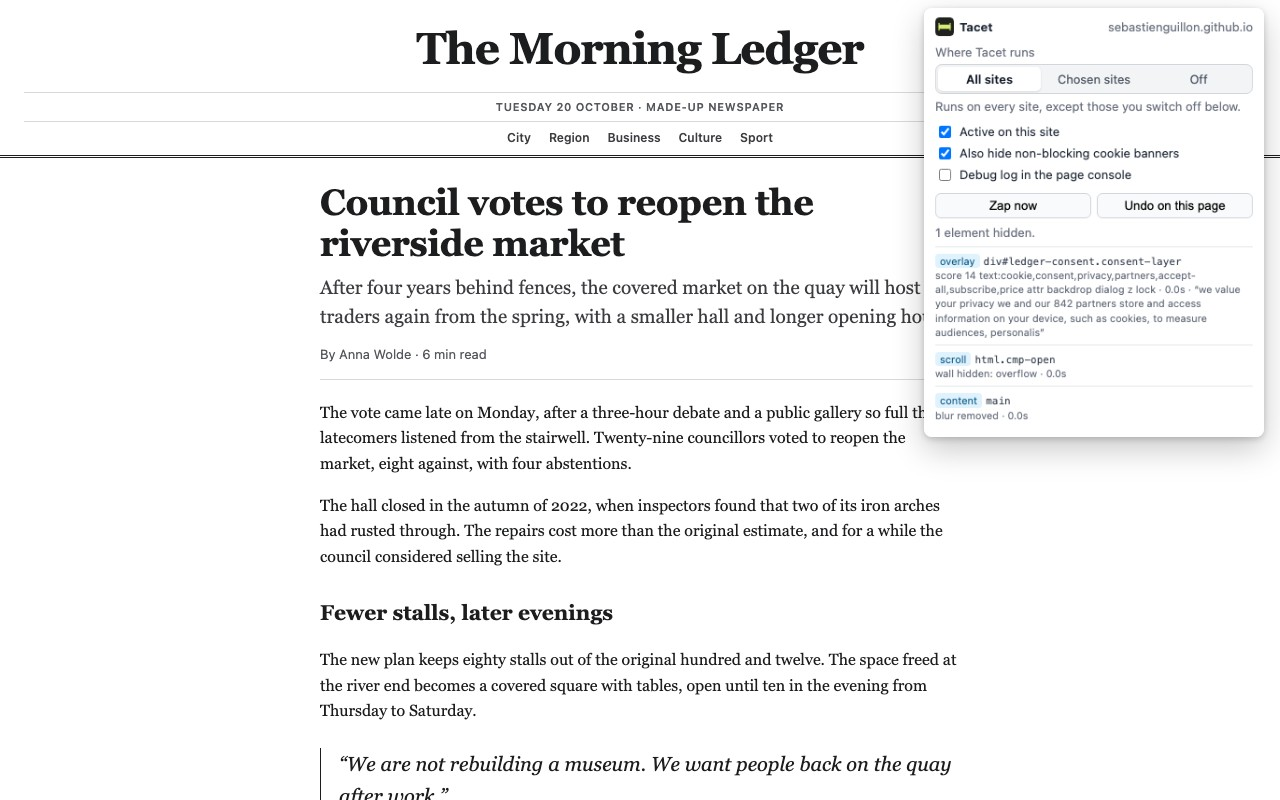
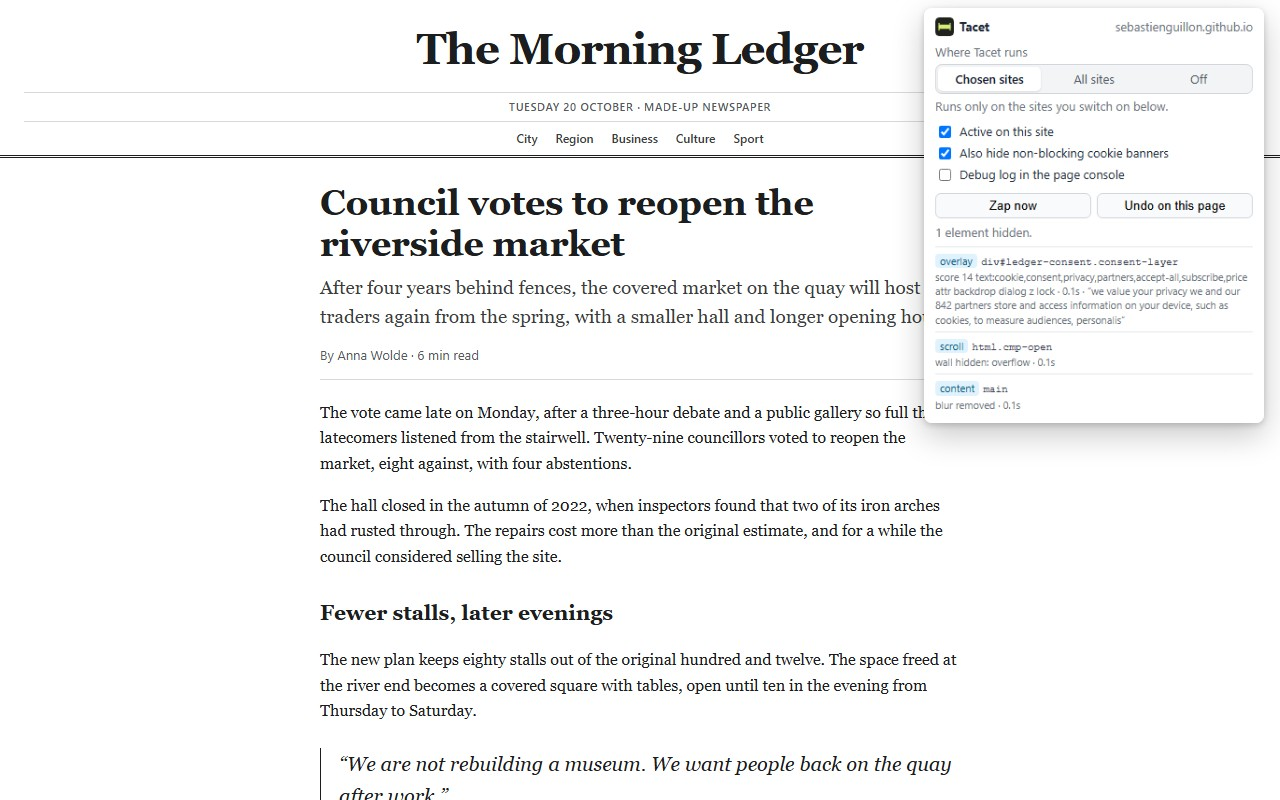
feat: new installs run on chosen sites, listed first
The popup's switch now reads Chosen sites, All sites, Off, and a new install
starts in Chosen sites: Tacet leaves every site alone until it is switched
on there or All sites is chosen. The installs from before keep All sites.

src/background.js listens only to runtime.onInstalled and stores mode
"sites" on install when no mode is stored. No mode stored still means All
sites, the default before, so the installs from before need no event:
Firefox sends none for an update applied while the add-on is disabled. The
manifest declares the script as background.service_worker for Chrome and
background.scripts for Firefox; Chrome before 121 refuses the latter, hence
minimum_chrome_version 121. Mozilla's linter warns that Firefox ignores
service_worker, so pnpm lint:ext now runs scripts/lint-ext.mjs, which fails
on every error and warning but that one.

tests/install.test.mjs runs the background script with a stand-in API, then
installs the unpacked extension in Chromium and checks that a new install
leaves a page alone until its site is switched on. tests/settings.test.mjs
checks the popup's order, labels and hint for a new install, and
tests/manifest.test.mjs the background keys and the minimum Chrome version.
A fresh profile is a new install, so pnpm probe now runs on all sites and
pnpm screenshots switches the demo's site on. The README, PRODUCT.md, the
support and privacy pages and the store listings describe the new default,
[…]

diff --git a/docs/fr/confidentialite.html b/docs/fr/confidentialite.html
@@ -43,7 +43,7 @@
           Tacet fonctionne entièrement dans votre navigateur. Il n’a ni serveur, ni statistiques, ni
           compte, et n’envoie aucune donnée à son développeur ni à personne d’autre.
         </p>
-        <p class="meta">Politique de confidentialité · Mise à jour le 20 octobre 2026</p>
+        <p class="meta">Politique de confidentialité · Mise à jour le 28 novembre 2026</p>
       </div>
       <aside class="policy-index">
         <nav aria-label="Sections de la politique de confidentialité">
@@ -67,7 +67,9 @@
           <code>https</code>, dans la page elle-même et non dans les cadres qu’elle intègre, dès que
           la page commence à se charger. Il ne s’exécute pas sur les pages du navigateur, sur les
           boutiques d’extensions, ni sur les fichiers ouverts depuis votre ordinateur. Tout son code
-          est dans le paquet installé ; il ne charge rien depuis internet.
+          est dans le paquet installé ; il ne charge rien depuis internet. Son script d’arrière-plan
+          n’agit que lorsque Tacet est installé : il enregistre que Tacet s’exécute sur les sites
+          que vous choisissez, et ne lit rien sur les pages.
         </p>
 
         <h2 id="reads">Ce qu’il lit et pourquoi</h2>
@@ -98,7 +100,7 @@
         <ul>
           <li>
             Dans le stockage des extensions du navigateur, sur cet appareil uniquement (sans
-            synchronisation) : là où Tacet s’exécute (tous les sites, les sites choisis ou aucun),
+            synchronisation) : là où Tacet s’exécute (les sites choisis, tous les sites ou aucun),
             les sites où vous l’avez activé ou désactivé, le fait qu’il masque ou non les bandeaux
             de cookies qui ne bloquent pas la page, et l’activation ou non du journal de débogage.
           </li>
@@ -135,11 +137,12 @@
 
         <h2 id="choices">Vos choix</h2>
         <p>
-          Depuis la fenêtre de Tacet, vous pouvez l’exécuter sur tous les sites, seulement sur les
-          sites que vous choisissez, ou sur aucun, l’activer ou le désactiver pour un site, annuler
-          ses changements sur la page en cours, ou l’empêcher de masquer les bandeaux de cookies qui
-          ne bloquent pas la page. Supprimer l’extension efface ses réglages. Rien sur vous n’est
-          conservé ailleurs.
+          Quand vous installez Tacet, il laisse toutes les pages intactes jusqu’à ce que vous
+          choisissiez où il s’exécute. Depuis sa fenêtre, vous pouvez l’exécuter seulement sur les
+          sites que vous choisissez, sur tous les sites, ou sur aucun, l’activer ou le désactiver
+          pour un site, annuler ses changements sur la page en cours, ou l’empêcher de masquer les
+          bandeaux de cookies qui ne bloquent pas la page. Supprimer l’extension efface ses
+          réglages. Rien sur vous n’est conservé ailleurs.
         </p>
 
         <h2 id="website">Ce site</h2>

diff --git a/docs/privacy.html b/docs/privacy.html
@@ -42,7 +42,7 @@
           Tacet works entirely in your browser. It has no server, no analytics and no account, and
           it sends no data to its developer or to anyone else.
         </p>
-        <p class="meta">Privacy policy · Updated 20 October 2026</p>
+        <p class="meta">Privacy policy · Updated 28 November 2026</p>
       </div>
       <aside class="policy-index">
         <nav aria-label="Privacy policy sections">
@@ -66,7 +66,8 @@
           page itself rather than in frames embedded in it, from the moment the page starts loading.
           It does not run on the browser’s own pages, on extension stores, or on files opened from
           your computer. All of its code is in the installed package; it loads nothing from the
-          internet.
+          internet. Its background script acts only when Tacet is installed: it stores that Tacet
+          runs on the sites you choose, and reads nothing from pages.
         </p>
 
         <h2 id="reads">What it reads and why</h2>
@@ -95,7 +96,7 @@
         <ul>
           <li>
             In the browser’s extension storage, on this device only (it does not sync): where Tacet
-            runs (all sites, chosen sites or none), the sites you switched it on or off for, whether
+            runs (chosen sites, all sites or none), the sites you switched it on or off for, whether
             it hides cookie banners that do not block the page, and whether debug logging is on.
           </li>
           <li>
@@ -130,10 +131,11 @@
 
         <h2 id="choices">Your choices</h2>
         <p>
-          From Tacet’s popup, you can run it on all sites, only on the sites you choose, or on none,
-          switch it on or off for a site, undo its changes on the current page, or stop it from
-          hiding cookie banners that do not block the page. Removing the extension deletes its
-          settings. Nothing about you is kept anywhere else.
+          When you install Tacet, it leaves every page alone until you choose where it runs. From
+          its popup, you can run it only on the sites you choose, on all sites, or on none, switch
+          it on or off for a site, undo its changes on the current page, or stop it from hiding
+          cookie banners that do not block the page. Removing the extension deletes its settings.
+          Nothing about you is kept anywhere else.
         </p>
 
         <h2 id="website">This website</h2>

diff --git a/docs/fr/aide.html b/docs/fr/aide.html
@@ -59,10 +59,11 @@
         <details open>
           <summary>Un mur est encore sur la page</summary>
           <p>
-            Ouvrez la fenêtre de Tacet depuis la barre d’outils et appuyez sur
-            <strong>Zap now</strong> : il masque ce qui couvre encore la page et débloque le
-            défilement. Si cela fonctionne, signalez la page, pour que Tacet apprenne à le faire de
-            lui-même.
+            Ouvrez la fenêtre de Tacet depuis la barre d’outils et cochez
+            <strong>Active on this site</strong> si ce n’est pas déjà fait. Si le mur est toujours
+            là, appuyez sur <strong>Zap now</strong> : il masque ce qui couvre encore la page et
+            débloque le défilement. Si cela fonctionne, signalez la page, pour que Tacet apprenne à
+            le faire de lui-même.
           </p>
         </details>
         <details>
@@ -108,11 +109,14 @@
         <details>
           <summary>Tacet ne fait rien sur une page</summary>
           <p>
-            Tacet s’exécute seulement sur les pages web : pas sur les pages du navigateur, les
-            boutiques d’extensions ou les fichiers ouverts depuis votre ordinateur, ni dans les
-            cadres intégrés à une page. Vérifiez dans sa fenêtre qu’il est actif pour ce site : avec
-            <strong>Chosen sites</strong>, il ne s’exécute que sur les sites que vous avez activés,
-            et avec <strong>Off</strong>, sur aucun.
+            À l’installation, Tacet est réglé sur <strong>Chosen sites</strong> : il ne s’exécute
+            que sur les sites que vous activez. Cochez <strong>Active on this site</strong> dans sa
+            fenêtre, ou choisissez <strong>All sites</strong> ; avec <strong>Off</strong>, il ne
+            s’exécute sur aucun. Quel que soit votre choix, Tacet s’exécute seulement sur les pages
+            web : pas sur les pages du navigateur, les boutiques d’extensions ou les fichiers
+            ouverts depuis votre ordinateur, ni dans les cadres intégrés à une page. Un site est son
+            adresse sans <code>www.</code> : <code>news.example.com</code> et
+            <code>example.com</code> s’activent séparément.
           </p>
         </details>
       </section>

diff --git a/docs/support.html b/docs/support.html
@@ -56,9 +56,10 @@
         <details open>
           <summary>A wall is still on the page</summary>
           <p>
-            Open Tacet’s popup from the toolbar and press <strong>Zap now</strong>: it hides
-            whatever still covers the page and unlocks scrolling. If that works, report the page, so
-            that Tacet learns to do it on its own.
+            Open Tacet’s popup from the toolbar and tick <strong>Active on this site</strong> if it
+            is not ticked already. If the wall is still there, press <strong>Zap now</strong>: it
+            hides whatever still covers the page and unlocks scrolling. If that works, report the
+            page, so that Tacet learns to do it on its own.
           </p>
         </details>
         <details>
@@ -102,10 +103,13 @@
         <details>
           <summary>Tacet does nothing on a page</summary>
           <p>
-            Tacet runs only on web pages: not on the browser’s own pages, on extension stores, or on
-            files opened from your computer, and not inside frames embedded in a page. Check in its
-            popup that it is active for the site: with <strong>Chosen sites</strong>, it runs only
-            on the sites you switched on, and with <strong>Off</strong>, on none.
+            When you install Tacet, it is set to <strong>Chosen sites</strong>: it runs only on the
+            sites you switch on. Tick <strong>Active on this site</strong> in its popup, or choose
+            <strong>All sites</strong>; with <strong>Off</strong>, it runs on none. Whatever you
+            choose, Tacet runs only on web pages: not on the browser’s own pages, on extension
+            stores, or on files opened from your computer, and not inside frames embedded in a page.
+            A site is its address without <code>www.</code>, so <code>news.example.com</code> and
+            <code>example.com</code> are switched on separately.
           </p>
         </details>
       </section>

diff --git a/src/popup/popup.js b/src/popup/popup.js
@@ -3,8 +3,8 @@ const $ = (id) => document.getElementById(id);
 
 // The settings are described in src/content/tacet.js, next to its runsOn().
 const HINTS = {
-  on: "Runs on every site, except those you switch off below.",
   sites: "Runs only on the sites you switch on below.",
+  on: "Runs on every site, except those you switch off below.",
   off: "Off everywhere. Zap now still works on this page.",
 };
 
@@ -29,7 +29,9 @@ async function send(type) {
   }
 }
 
-// The sites switched off before modes existed become choices in `sites`.
+// The sites switched off before modes existed become choices in `sites`. No
+// mode stored means All sites, as for the installs from before; a new install
+// stores Chosen sites (src/background.js).
 async function readSettings() {
   const s = await api.storage.local.get(["mode", "sites", "disabledHosts", "debug", "banners"]);
   const sites = s.sites ?? {};

diff --git a/src/background.js b/src/background.js
@@ -1,0 +1,14 @@
+// Stores where a new install of Tacet runs, and listens to nothing else: "sites"
+// (Chosen sites), so Tacet leaves every site alone until it is switched on
+// there. An install from before has no mode stored, which means "on" (All
+// sites), the default before: it needs no event, so one the browser does not
+// send (Firefox sends none for an update applied while Tacet is disabled) cannot
+// switch Tacet off where it ran. A mode already stored is the user's choice and
+// stays. src/content/tacet.js describes the settings next to its runsOn().
+const api = globalThis.browser ?? globalThis.chrome;
+
+api.runtime.onInstalled.addListener(async ({ reason }) => {
+  if (reason !== "install") return;
+  const { mode } = await api.storage.local.get("mode");
+  if (mode === undefined) await api.storage.local.set({ mode: "sites" });
+});

diff --git a/docs/demo/tacet.js b/docs/demo/tacet.js
@@ -1053,8 +1053,10 @@
   }
 
   // Settings in extension storage (src/popup/popup.js writes them):
-  //   mode: "on" (default) runs on every site, "sites" only on the sites switched
-  //         on, "off" on none;
+  //   mode: "sites" runs only on the sites switched on, "on" on every site, "off"
+  //         on none. src/background.js stores "sites" when Tacet is installed;
+  //         no mode stored means "on", the default before, so the installs from
+  //         before keep running where they ran;
   //   sites: { host: true | false }, the user's choice for each site, which wins
   //         over the mode's default in "on" and "sites";
   //   disabledHosts: { host: true }, the sites switched off before modes existed.

diff --git a/src/content/tacet.js b/src/content/tacet.js
@@ -1053,8 +1053,10 @@
   }
 
   // Settings in extension storage (src/popup/popup.js writes them):
-  //   mode: "on" (default) runs on every site, "sites" only on the sites switched
-  //         on, "off" on none;
+  //   mode: "sites" runs only on the sites switched on, "on" on every site, "off"
+  //         on none. src/background.js stores "sites" when Tacet is installed;
+  //         no mode stored means "on", the default before, so the installs from
+  //         before keep running where they ran;
   //   sites: { host: true | false }, the user's choice for each site, which wins
   //         over the mode's default in "on" and "sites";
   //   disabledHosts: { host: true }, the sites switched off before modes existed.

diff --git a/src/popup/popup.html b/src/popup/popup.html
@@ -14,8 +14,8 @@
     <fieldset class="modes">
       <legend>Where Tacet runs</legend>
       <div class="segments">
-        <label><input type="radio" name="mode" value="on" />All sites</label>
         <label><input type="radio" name="mode" value="sites" />Chosen sites</label>
+        <label><input type="radio" name="mode" value="on" />All sites</label>
         <label><input type="radio" name="mode" value="off" />Off</label>
       </div>
       <p id="hint"></p>

diff --git a/README.md b/README.md
@@ -12,7 +12,7 @@ Its public website is <https://sebastienguillon.github.io/tacet/>, in English an
 
 ## Requirements
 
-- Google Chrome, or Firefox 140 or later
+- Google Chrome 121 or later, or Firefox 140 or later
 - A local copy of this repository
 - Node.js 24 or later and pnpm 12 or later, for the tests and tools only
 
@@ -33,14 +33,14 @@ After changing the source, click the **Reload** button on the Tacet card in `chr
 3. Click **Load Temporary Add-on…**.
 4. Select `src/manifest.json` in this repository.
 
-Firefox removes temporarily loaded extensions when the browser restarts. `pnpm start:firefox` starts a separate Firefox profile with Tacet loaded and reloads it when the source changes; `pnpm start:chrome` does the same in Chromium.
+Firefox removes temporarily loaded extensions when the browser restarts. `pnpm start:firefox` starts a separate Firefox profile with Tacet loaded and reloads it when the source changes; `pnpm start:chrome` does the same in Chromium. Each run is a new install, so Tacet starts in **Chosen sites**: switch it on for the page's site, or choose **All sites**.
 
 ## Using it
 
-Tacet works on its own as pages load. The toolbar popup can:
+Tacet works on its own as pages load, on the sites where it runs. A new install starts in **Chosen sites**: Tacet leaves every site alone until you switch it on for that site (**Active on this site**) or choose **All sites**. The toolbar popup can:
 
-- choose where Tacet runs: **All sites** (the default), **Chosen sites** (only the sites you switch on), or **Off**;
-- switch Tacet on or off for the current site (**Active on this site**). In **All sites** this makes an exception, in **Chosen sites** it adds the site; the choice is kept when you change modes, and **Off** overrides it. A site is its host name without `www.`, so `www.example.com` and `example.com` are one site and `news.example.com` is another;
+- choose where Tacet runs: **Chosen sites** (the default: only the sites you switch on), **All sites**, or **Off**;
+- switch Tacet on or off for the current site (**Active on this site**). In **Chosen sites** this adds the site, in **All sites** it makes an exception; the choice is kept when you change modes, and **Off** overrides it. A site is its host name without `www.`, so `www.example.com` and `example.com` are one site and `news.example.com` is another;
 - hide cookie banners that do not block the page, or leave them (on by default);
 - hide whatever is left on the page (**Zap now**) and restore the page (**Undo on this page**);
 - list what was hidden or repaired on the page and why;
@@ -48,7 +48,7 @@ Tacet works on its own as pages load. The toolbar popup can:
 
 On a site where Tacet is off, the content script reads its settings and nothing else: it does not observe or change the page. **Zap now** still works there, on the current page only; **Undo on this page** stops it again.
 
-The settings are in `browser.storage.local`: `mode` (`"on"`, `"sites"` or `"off"`), `sites` (`{ host: true | false }`), `banners` and `debug`. `src/content/tacet.js` documents them next to `runsOn()`, which `src/popup/popup.js` repeats. Sites switched off before modes existed, in `disabledHosts`, are still honoured and move into `sites` the first time the popup opens.
+The settings are in `browser.storage.local`: `mode` (`"sites"`, `"on"` or `"off"`), `sites` (`{ host: true | false }`), `banners` and `debug`. `src/content/tacet.js` documents them next to `runsOn()`, which `src/popup/popup.js` repeats. `src/background.js` stores `"sites"` when Tacet is installed, and does nothing else. No `mode` stored counts as `"on"`, the default before, so an earlier install that never chose a mode keeps running on all sites without needing any event at update. Sites switched off before modes existed, in `disabledHosts`, are still honoured and move into `sites` the first time the popup opens.
 
 ## How detection works
 
@@ -84,6 +84,7 @@ Clicking a "cookie settings" control, such as "Modifier mes choix cookies", rele
 | Path                      | Purpose                                                                            |
 | ------------------------- | ---------------------------------------------------------------------------------- |
 | `src/`                    | The extension, loaded as is: manifest, content script and styles, popup, icons     |
+| `src/background.js`       | Stores Chosen sites when Tacet is installed, and does nothing else                 |
 | `tests/`                  | Behaviour tests in Chromium and Firefox, and manifest checks                       |
 | `tests/fixtures/`         | Local pages reproducing walls, locks and the patterns that must be left alone      |
 | `scripts/probe.mjs`       | Loads real sites with and without Tacet and reports the difference                 |
@@ -91,6 +92,7 @@ Clicking a "cookie settings" control, such as "Modifier mes choix cookies", rele
 | `scripts/icons.mjs`       | Exports `assets/icon.svg` to the PNG sizes in `src/icons/` and `docs/icon.png`     |
 | `scripts/site.mjs`        | Copies the content script into `docs/demo/` for the website's demo                 |
 | `scripts/screenshots.mjs` | Takes the store screenshots from the website's demo page                           |
+| `scripts/lint-ext.mjs`    | Runs Mozilla's add-on linter on `src/`, allowing only the `service_worker` warning |
 | `store/`                  | The store listing's text and release notes, one file per language, and screenshots |
 | `assets/`                 | The icon's SVG source                                                              |
 | `docs/`                   | The public website, published by GitHub Pages; French pages in `docs/fr/`          |
@@ -113,7 +115,7 @@ The second command downloads the browsers Playwright drives for the tests and th
 pnpm test
 ```
 
-`tests/extension.test.mjs` injects the content script into each page of `tests/fixtures/`, in Chromium and in Firefox, and checks what it hides, unlocks and repairs, and what it must leave alone: walls at load and after a delay, user-opened lightboxes and login forms, cookie-settings links, app shells, `position: fixed` locks, content blurred by a CMP class, menus that blur the page on purpose, inert drawers and slides, loading states and dropdowns that disable `<body>`. Each page is a test and each check a subtest. The website's two demo pages (`docs/demo/`) run the same way, so the homepage never shows a wall Tacet cannot remove. Node runs them with its built-in test runner. `tests/settings.test.mjs` runs the content script with a stand-in for the extension storage, on a fixture served at a real host name, and checks where it runs in each mode, that it leaves a site it is off for untouched, and that the popup records the mode and the site's choice. `tests/manifest.test.mjs` checks the manifest's version and file references, and `tests/site.test.mjs` that the website runs the shipped content script.
+`tests/extension.test.mjs` injects the content script into each page of `tests/fixtures/`, in Chromium and in Firefox, and checks what it hides, unlocks and repairs, and what it must leave alone: walls at load and after a delay, user-opened lightboxes and login forms, cookie-settings links, app shells, `position: fixed` locks, content blurred by a CMP class, menus that blur the page on purpose, inert drawers and slides, loading states and dropdowns that disable `<body>`. Each page is a test and each check a subtest. The website's two demo pages (`docs/demo/`) run the same way, so the homepage never shows a wall Tacet cannot remove. Node runs them with its built-in test runner. `tests/settings.test.mjs` runs the content script with a stand-in for the extension storage, on a fixture served at a real host name, and checks where it runs in each mode and with no settings, that it leaves a site it is off for untouched, and that the popup lists **Chosen sites** first and records the mode and the site's choice. `tests/install.test.mjs` runs `src/background.js` in Node with a stand-in for the extension API and checks that it stores Chosen sites on install and nothing on update, then installs the unpacked extension in Chromium and checks that a new install stores Chosen sites, leaves a page alone, and runs on it once its site is switched on; Playwright cannot install an extension in Firefox. `tests/manifest.test.mjs` checks the manifest's version, its file references and that Chrome 121 or later and Firefox get the same background script, and `tests/site.test.mjs` that the website runs the shipped content script.
 
 When a real site misbehaves, reproduce the pattern in a fixture before changing the detection, and make sure the new check fails without the change.
 
@@ -150,7 +152,7 @@ Run commands from the repository root:
 | `pnpm test`          | Run the tests in `tests/` with Node's built-in test runner        |
 | `pnpm lint`          | Check the source, tests and tools with Oxlint                     |
 | `pnpm lint:fix`      | Apply Oxlint's safe automatic fixes                               |
-| `pnpm lint:ext`      | Validate `src/` with Mozilla's add-on linter, every warning fatal |
+| `pnpm lint:ext`      | Run Mozilla's add-on linter on `src/`, all warnings but one fatal |
 | `pnpm format`        | Format supported project files with Oxfmt                         |
 | `pnpm format:check`  | Verify formatting without changing files                          |
 | `pnpm check`         | Lint, verify formatting, test, and validate the extension         |

diff --git a/store/listing.fr.md b/store/listing.fr.md
@@ -20,7 +20,7 @@ Comment il les trouve. Tacet reconnaît les outils de consentement les plus rép
 
 Ce qu’il laisse en place. Ce que vous ouvrez vous-même : un formulaire de connexion, un menu, une visionneuse de photos. Quand vous cliquez sur le lien de réglage des cookies d’un site, sa propre fenêtre revient pour que vous y répondiez comme vous l’entendez. Les vérifications anti-robots, comme les CAPTCHA, restent en place.
 
-Vous gardez la main. Le menu de Tacet liste ce qu’il a masqué sur la page et pourquoi. De là, vous pouvez masquer ce qui reste avec Zap now, rétablir la page avec Undo on this page, désactiver Tacet pour un site, ou laisser en place les bandeaux de cookies qui ne bloquent pas la page. Vous choisissez aussi où il s’exécute : sur tous les sites, seulement sur ceux que vous activez, ou sur aucun.
+Vous gardez la main. Le menu de Tacet liste ce qu’il a masqué sur la page et pourquoi. De là, vous pouvez masquer ce qui reste avec Zap now, rétablir la page avec Undo on this page, activer ou désactiver Tacet pour un site, ou laisser en place les bandeaux de cookies qui ne bloquent pas la page. Vous choisissez aussi où il s’exécute : seulement sur les sites que vous activez, sur tous les sites, ou sur aucun. Une fois installé, il ne s’exécute que sur les sites que vous activez, et laisse les autres intacts jusqu’à ce que vous choisissiez tous les sites.
 
 Tacet retire les murs de consentement ; il ne contourne pas les murs payants : les articles réservés aux abonnés le restent.
 
@@ -47,7 +47,7 @@ Tacet a un seul objectif : retirer les murs de consentement et les autres fenêt
 
 ### Justification de storage
 
-Tacet utilise le stockage pour retenir, sur l’appareil de l’utilisateur, là où il s’exécute (tous les sites, les sites choisis ou aucun), les sites où celui-ci l’a activé ou désactivé, le fait qu’il masque ou non les bandeaux de cookies qui ne bloquent pas la page, et l’activation ou non de son journal de débogage. Rien de ce qui est stocké n’est envoyé nulle part ; Tacet ne fait aucune requête réseau.
+Tacet utilise le stockage pour retenir, sur l’appareil de l’utilisateur, là où il s’exécute (les sites choisis, tous les sites ou aucun), les sites où celui-ci l’a activé ou désactivé, le fait qu’il masque ou non les bandeaux de cookies qui ne bloquent pas la page, et l’activation ou non de son journal de débogage. Rien de ce qui est stocké n’est envoyé nulle part ; Tacet ne fait aucune requête réseau.
 
 ### Justification de l’accès aux sites
 
@@ -55,7 +55,7 @@ Le script de contenu de Tacet s’exécute sur toutes les pages http et https, c
 
 ### Code distant
 
-Sélectionnez « No, I am not using remote code ». Tout le code de Tacet est dans le paquet de l’extension : un script de contenu, une feuille de style et la fenêtre de l’extension. Il ne charge rien depuis le réseau et n’exécute aucun code des pages qu’il visite.
+Sélectionnez « No, I am not using remote code ». Tout le code de Tacet est dans le paquet de l’extension : un script de contenu, une feuille de style, la fenêtre de l’extension et un script d’arrière-plan, qui ne fait qu’enregistrer, quand Tacet est installé, qu’il s’exécute sur les sites que l’utilisateur active. Il ne charge rien depuis le réseau et n’exécute aucun code des pages qu’il visite.
 
 ### Utilisation des données
 

diff --git a/PRODUCT.md b/PRODUCT.md
@@ -26,8 +26,8 @@ Tacet never answers consent. It hides the wall without clicking Accept or Refuse
 
 ## Operating Context
 
-- A content script runs at `document_start` in the top frame of every http/https page. On a site where Tacet is off, it reads its settings and leaves the page untouched. There is no background script, the only permission is `storage`, and the extension makes no network requests.
-- The toolbar popup is the only interface. It chooses where Tacet runs (**All sites**, the default; **Chosen sites**, only the sites switched on; **Off**), switches Tacet on or off for the current site, toggles the hiding of non-blocking cookie banners (on by default), turns on a debug log in the page console, hides whatever is left (**Zap now**), restores the page (**Undo on this page**), and lists every element hidden or repaired, with the reason.
+- A content script runs at `document_start` in the top frame of every http/https page. On a site where Tacet is off, it reads its settings and leaves the page untouched. A background script only stores Chosen sites when Tacet is installed; the only permission is `storage`, and the extension makes no network requests.
+- The toolbar popup is the only interface. It chooses where Tacet runs (**Chosen sites**, only the sites switched on, the default for new installs; **All sites**, kept by earlier installs that never chose a mode; **Off**), switches Tacet on or off for the current site, toggles the hiding of non-blocking cookie banners (on by default), turns on a debug log in the page console, hides whatever is left (**Zap now**), restores the page (**Undo on this page**), and lists every element hidden or repaired, with the reason.
 - Settings live in the browser's extension storage: the mode, the choice for each site, the banner toggle, debug.
 - Distribution: the Chrome Web Store and addons.mozilla.org, with a public GitHub Pages site (homepage, privacy policy, support) at https://sebastienguillon.github.io/tacet/, as for the sibling extension `sg-x`. The store listing text is in `store/`.
 - Development: `pnpm check` (lint, format, behaviour tests in Chromium and Firefox, Mozilla's linter) and `pnpm probe` on real sites; see README.md.
@@ -44,12 +44,12 @@ Capabilities:
 
 Constraints:
 
-- Manifest V3, one manifest for Chrome and for Firefox 140+ (Firefox for Android 142+); plain JavaScript loaded from `src/` with no build step.
+- Manifest V3, one manifest for Chrome 121+ and for Firefox 140+ (Firefox for Android 142+); plain JavaScript loaded from `src/` with no build step.
 - Collects no data (`data_collection_permissions: none`), never clicks, never records a consent choice.
 - Does not try to get around subscription paywalls.
 - Does not restore content a wall script removed or truncated; processes the top frame only; does not undo locks made with `wheel`/`touchmove` listeners.
 
-Terminology: wall, overlay, popup, banner, corner box, scroll lock, signature (a known vendor's container), CMP (consent management platform), Zap now, Undo, the modes All sites, Chosen sites and Off.
+Terminology: wall, overlay, popup, banner, corner box, scroll lock, signature (a known vendor's container), CMP (consent management platform), Zap now, Undo, the modes Chosen sites, All sites and Off.
 
 Open decisions:
 
